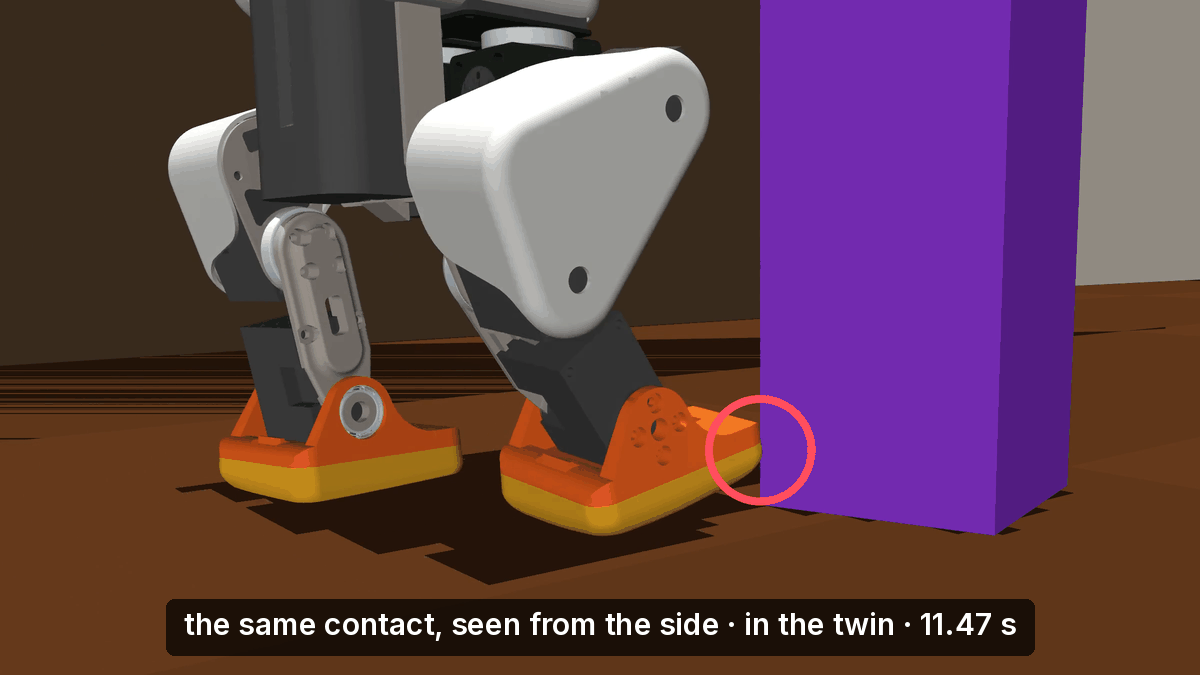
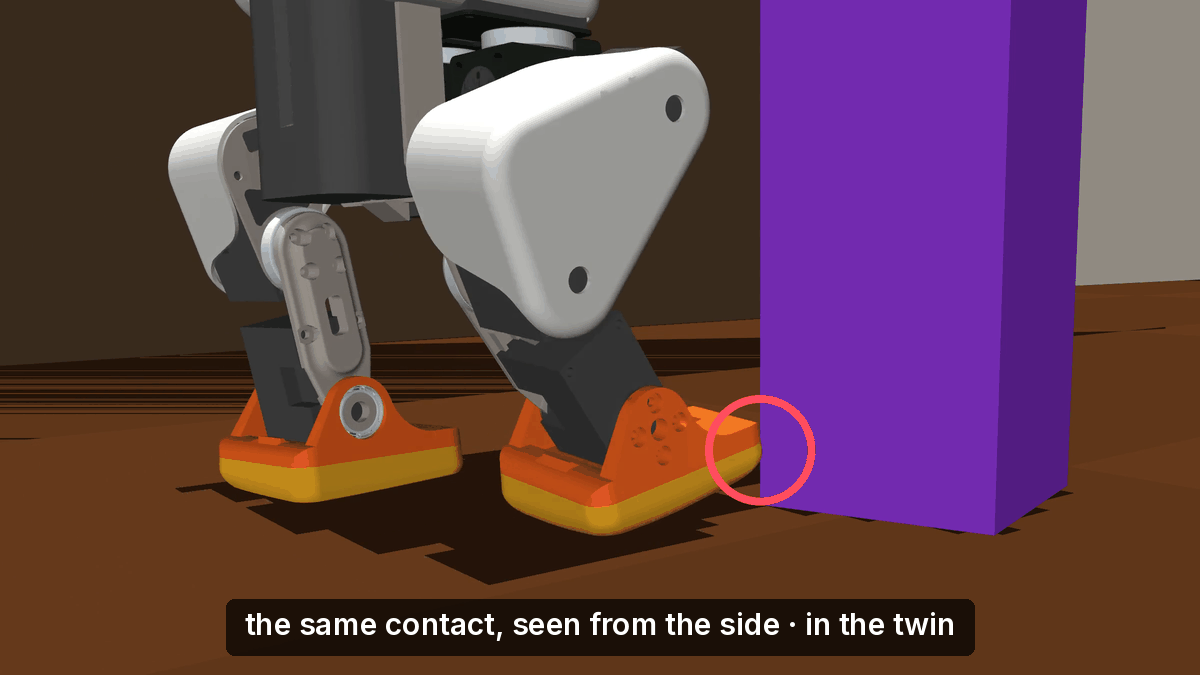
README: the side contact without a time, and the fixed robot's closest approach from the side
contact-side.png now reads "the same contact, seen from the side · in the twin": the twin's
11.47 s is not the proof's 11.46 s. The example's proof camera never sees the fixed robot whole
(its box spans y 0-109 px of 720), so closest-side.png shows it in the twin from the side at the
proof's closest approach, short of the box.

Changed region(s): [[0.1233, 0.8711, 0.8633, 0.9956]]

diff --git a/DEVLOG.md b/DEVLOG.md
@@ -49,3 +49,4 @@ All times UK.
 - 22:40 (Oct 30) Tap the glasses to talk (`voice live --tap-to-talk`): a tap on the Ray-Ban Meta arm starts the recording, the next stops it; F9 still works. Windows injects a tap as a device-less media key (single tap: play/pause; no key up), taken by a low-level hook in the sidecar and swallowed while it listens; utterances carry `trigger: "glasses-tap"`. Measured first: 6 of 6 single taps arrived, median 694 ms after a Space pressed with the other hand (665–879 ms), so both taps are set back by 0.69 s and the idle mic keeps 1.19 s instead of 0.5 s. Checked with injected keys (one utterance, 0.69 s set back, 6.6 s of audio for taps 6 s apart, the key swallowed); not yet in a live run.
 - 23:30 (Oct 30) Console, film mode: the listen chip reads "tap the glasses · Ray-Ban Meta" when the key event's `trigger` is `glasses-tap`, and "F9 · hold and speak" otherwise, from the stream alone; the waveform line says "between taps" instead of "held" for a tap. The example (Oct 29, F9) stays on F9. The quarter-speed badge reads "0.25× speed": "¼" drew as a broken glyph in fonts without it (DejaVu Sans Mono, headless). Checked headless on the example and on a copy of its stream with the trigger set; `docs/report` rebuilt.
 - 23:45 (Oct 30) README images rebuilt from the public example only (`examples/purple-box`, run 20261029-170922), headless at 1920x1080 with the Windows console fonts, each under 100 KB: See at the first contact (11.20 s, frame 96, gap 1.0 px), Prove it with each replay held on its own moment (contact at 11.46 s; with the fix, the closest approach, 106 px at 12.89 s) and "Keep the fix?" Yes after 12.6 s, the fix kept as 77db417, and the GIF from the two replays ending on "contacts 1 → 0" (97 KB, was 872 KB). New `docs/contact-side.png`: the same contact from 38° on the side in the twin, 11.47 s, the right foot against the box, ringed.
+- 00:05 (Oct 31) README: `docs/contact-side.png` relabelled "the same contact, seen from the side · in the twin", with no time (the twin's 11.47 s is a different measurement from the proof's 11.46 s). New `docs/closest-side.png` under Prove it: in the example the fixed robot never fully enters the proof camera's frame (its box spans y 0–109 px of 720 in all 100 frames SAM sees it), so the twin shows it from the split-screen's side camera at the proof's closest approach, whole, short of the box.

diff --git a/README.md b/README.md
@@ -103,6 +103,8 @@ Every run writes a `models.json`: each model call with the model, where it ran (
 
 <p align="center"><img src="docs/console-prove.png" width="720" alt="The console's Prove it step: before the fix in red with 1 contact at 11.46 s, after it in green with none, closest 106 px; Keep the fix? Yes"></p>
 <p align="center"><em>Prove it: the same scene replayed before (red) and after the fix (green), measured on pixels: contacts 1 → 0. Each replay is shown at its own moment: the first contact at 11.46 s, and with the fix the closest approach, 106 px, where the robot stops and turns away. "Keep the fix?" was answered yes.</em></p>
+<p align="center"><img src="docs/closest-side.png" width="720" alt="With the fix, the whole robot stands short of the purple box at its closest approach, filmed from the side in the twin"></p>
+<p align="center"><em>With the fix the robot stops short of the box and turns away, so the proof's camera, from above, catches only its edge at the closest approach (106 px). The side view, at the same moment in the twin, shows the whole robot.</em></p>
 
 ## Try it in ~2 min, no GPU
 
